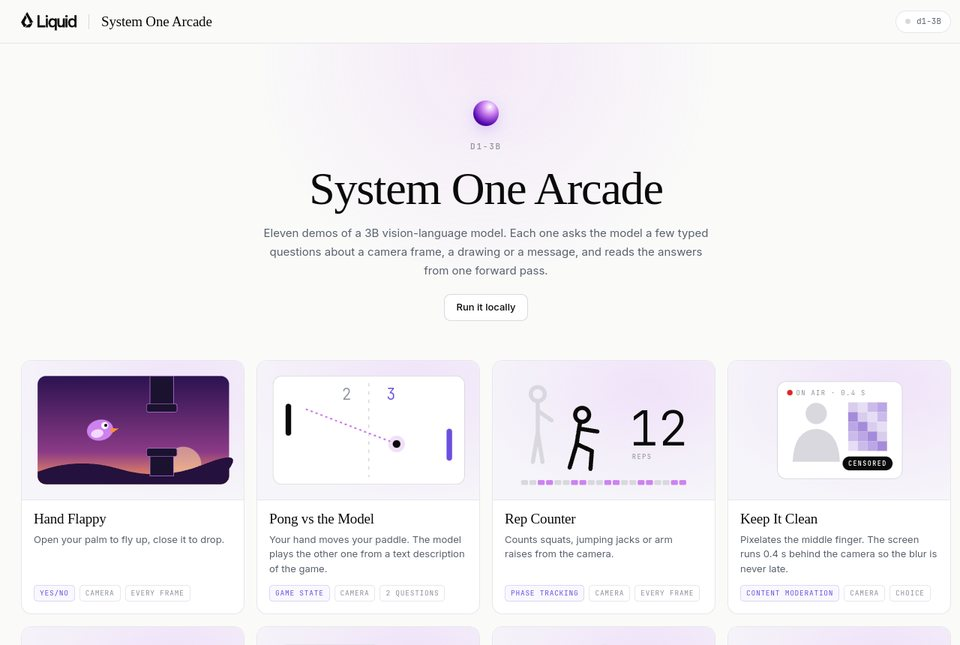
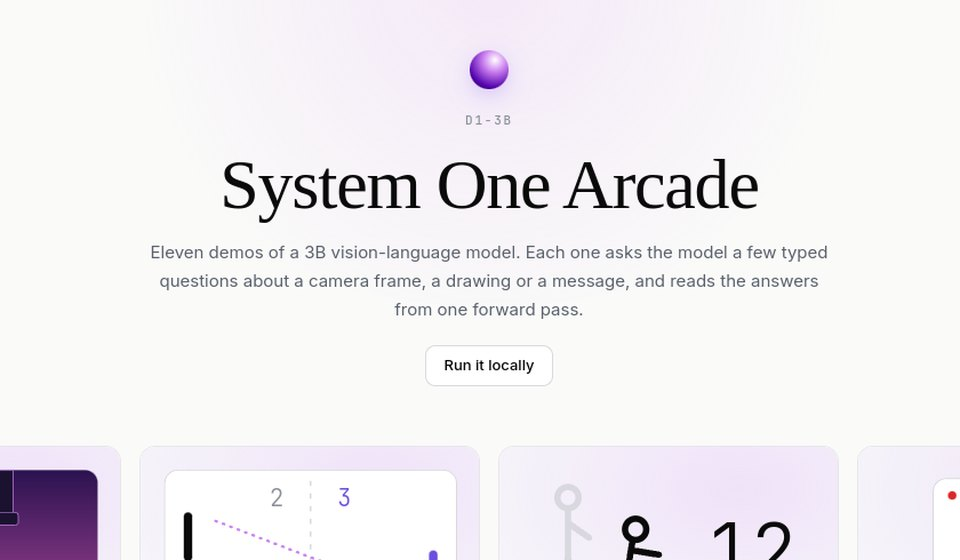
Demos: tighter screenshot crops
Claude-Session: https://claude.ai/code/session_01D4QHKUtNf3uFK5cjyGefw2

diff --git a/index.html b/index.html
@@ -631,23 +631,23 @@ footer.site a { color: var(--ink-muted); border: none; }
     <p class="headline">Nine demos worth trying.</p>
     <p class="intro">We found 282 live demos of Jev-style models (all checked on 16 Oct 2026). These nine are the most carefully made and show the most: probabilities, calibration, abstention, latency and the one-pass mechanics. Screenshots 16 Oct; click one to open the demo.</p>
     <div class="demos">
-      <figure class="demo" id="d-laya"><a class="img" href="https://huggingface.co/spaces/convaiinnovations/laya-demo"><img src="demos/laya.jpg" alt="Screenshot of the Laya Demo demo" loading="lazy" decoding="async" width="960" height="645"></a>
+      <figure class="demo" id="d-laya"><a class="img" href="https://huggingface.co/spaces/convaiinnovations/laya-demo"><img src="demos/laya.jpg" alt="Screenshot of the Laya Demo demo" loading="lazy" decoding="async" width="960" height="560"></a>
         <figcaption><div class="top"><a class="name" href="https://huggingface.co/spaces/convaiinnovations/laya-demo">Laya Demo</a><span class="lk">♥ 276</span></div><div class="dmeta"><span>Laya · 421M</span><span>text</span><span>convaiinnovations</span></div><p>Support triage, guardrails, routing and more, each answered in one pass with a probability per option; the thresholds live in your code, not in the model.</p></figcaption></figure>
-      <figure class="demo" id="d-kev"><a class="img" href="https://huggingface.co/spaces/jaredpalmer/kev"><img src="demos/kev.jpg" alt="Screenshot of the Kev demo" loading="lazy" decoding="async" width="960" height="645"></a>
+      <figure class="demo" id="d-kev"><a class="img" href="https://huggingface.co/spaces/jaredpalmer/kev"><img src="demos/kev.jpg" alt="Screenshot of the Kev demo" loading="lazy" decoding="async" width="960" height="560"></a>
         <figcaption><div class="top"><a class="name" href="https://huggingface.co/spaces/jaredpalmer/kev">Kev</a><span class="lk">♥ 88</span></div><div class="dmeta"><span>Kev · 0.8B / 4B</span><span>text</span><span>Jared Palmer</span></div><p>Jev's /v1/systemone request format with both sizes side by side, plus probes for question isolation and option-boundary forgery.</p></figcaption></figure>
-      <figure class="demo" id="d-openjev"><a class="img" href="https://huggingface.co/spaces/pngwn/open-jev"><img src="demos/openjev.jpg" alt="Screenshot of the Open Jev demo" loading="lazy" decoding="async" width="960" height="645"></a>
+      <figure class="demo" id="d-openjev"><a class="img" href="https://huggingface.co/spaces/pngwn/open-jev"><img src="demos/openjev.jpg" alt="Screenshot of the Open Jev demo" loading="lazy" decoding="async" width="960" height="560"></a>
         <figcaption><div class="top"><a class="name" href="https://huggingface.co/spaces/pngwn/open-jev">Open Jev</a><span class="lk">♥ 40</span></div><div class="dmeta"><span>Qwen3.5-4B scorer</span><span>text</span><span>pngwn</span></div><p>Encode the state once, decide in parallel: cached vs naive scoring vs JSON generation, with forward-pass counts.</p></figcaption></figure>
-      <figure class="demo" id="d-jevweb"><a class="img" href="https://warsang.github.io/jev-web/"><img src="demos/jevweb.jpg" alt="Screenshot of the jev-web demo" loading="lazy" decoding="async" width="960" height="645"></a>
+      <figure class="demo" id="d-jevweb"><a class="img" href="https://warsang.github.io/jev-web/"><img src="demos/jevweb.jpg" alt="Screenshot of the jev-web demo" loading="lazy" decoding="async" width="960" height="560"></a>
         <figcaption><div class="top"><a class="name" href="https://warsang.github.io/jev-web/">jev-web</a></div><div class="dmeta"><span>~10 open models</span><span>in browser</span><span>warsang</span></div><p>Switch between open decision models on the same input, on your own device, with latency and forward passes counted.</p></figcaption></figure>
-      <figure class="demo" id="d-jev9b"><a class="img" href="https://huggingface.co/spaces/autotrust/jev-9b-decision-demo"><img src="demos/jev9b.jpg" alt="Screenshot of the JEV-9B · System 1 + 2 demo" loading="lazy" decoding="async" width="960" height="645"></a>
+      <figure class="demo" id="d-jev9b"><a class="img" href="https://huggingface.co/spaces/autotrust/jev-9b-decision-demo"><img src="demos/jev9b.jpg" alt="Screenshot of the JEV-9B · System 1 + 2 demo" loading="lazy" decoding="async" width="960" height="560"></a>
         <figcaption><div class="top"><a class="name" href="https://huggingface.co/spaces/autotrust/jev-9b-decision-demo">JEV-9B · System 1 + 2</a><span class="lk">♥ 110</span></div><div class="dmeta"><span>JEV-9B</span><span>text</span><span>AutoTrust</span></div><p>Calibrated distributions in one pass; an Escalate tab hands low-confidence questions to System 2 thinking with the same weights.</p></figcaption></figure>
-      <figure class="demo" id="d-imajev"><a class="img" href="https://huggingface.co/spaces/mohit67890/imajev"><img src="demos/imajev.jpg" alt="Screenshot of the imajev demo" loading="lazy" decoding="async" width="960" height="645"></a>
+      <figure class="demo" id="d-imajev"><a class="img" href="https://huggingface.co/spaces/mohit67890/imajev"><img src="demos/imajev.jpg" alt="Screenshot of the imajev demo" loading="lazy" decoding="async" width="960" height="560"></a>
         <figcaption><div class="top"><a class="name" href="https://huggingface.co/spaces/mohit67890/imajev">imajev</a><span class="lk">♥ 14</span></div><div class="dmeta"><span>imajev-4B</span><span>image + text</span><span>mohit67890</span></div><p>Photo-against-record checks with an explicit can't-tell probability, so you can trade coverage for accuracy.</p></figcaption></figure>
-      <figure class="demo" id="d-d3"><a class="img" href="https://huggingface.co/spaces/vllm-sr/Decision-3.0"><img src="demos/d3.jpg" alt="Screenshot of the Decision 3.0 demo" loading="lazy" decoding="async" width="960" height="645"></a>
+      <figure class="demo" id="d-d3"><a class="img" href="https://huggingface.co/spaces/vllm-sr/Decision-3.0"><img src="demos/d3.jpg" alt="Screenshot of the Decision 3.0 demo" loading="lazy" decoding="async" width="960" height="560"></a>
         <figcaption><div class="top"><a class="name" href="https://huggingface.co/spaces/vllm-sr/Decision-3.0">Decision 3.0</a><span class="lk">♥ 3</span></div><div class="dmeta"><span>d3 family</span><span>text · image · video</span><span>vLLM Semantic Router · official</span></div><p>A probability for every answer on text, images and video; models side by side with latency; boxes scored on a zooming grid.</p></figcaption></figure>
-      <figure class="demo" id="d-arcade"><a class="img" href="https://huggingface.co/spaces/LiquidAI/system-one-arcade"><img src="demos/arcade.jpg" alt="Screenshot of the System One Arcade demo" loading="lazy" decoding="async" width="960" height="645"></a>
+      <figure class="demo" id="d-arcade"><a class="img" href="https://huggingface.co/spaces/LiquidAI/system-one-arcade"><img src="demos/arcade.jpg" alt="Screenshot of the System One Arcade demo" loading="lazy" decoding="async" width="960" height="560"></a>
         <figcaption><div class="top"><a class="name" href="https://huggingface.co/spaces/LiquidAI/system-one-arcade">System One Arcade</a><span class="lk">♥ 44</span></div><div class="dmeta"><span>d1-3B</span><span>camera · drawing</span><span>LiquidAI · official</span></div><p>Eleven camera and drawing mini-games, each driven by a few typed questions answered in one pass.</p></figcaption></figure>
-      <figure class="demo" id="d-videojev"><a class="img" href="https://huggingface.co/spaces/hugging-apps/videojev"><img src="demos/videojev.jpg" alt="Screenshot of the VideoJev demo" loading="lazy" decoding="async" width="960" height="645"></a>
+      <figure class="demo" id="d-videojev"><a class="img" href="https://huggingface.co/spaces/hugging-apps/videojev"><img src="demos/videojev.jpg" alt="Screenshot of the VideoJev demo" loading="lazy" decoding="async" width="960" height="560"></a>
         <figcaption><div class="top"><a class="name" href="https://huggingface.co/spaces/hugging-apps/videojev">VideoJev</a><span class="lk">♥ 2</span></div><div class="dmeta"><span>VideoJev-4B</span><span>video</span><span>hugging-apps</span></div><p>Temporal grounding and video QA in one pass, with a probability per timestamp; several questions share one video encoding.</p></figcaption></figure>
     </div>
     <p class="evnote" style="margin-top:16px">to try closed Jev itself: <a href="https://console.typesafe.ai/playground">TypeSafe playground</a> (account) · <a href="https://openrouter.ai/typesafe/jev-1.13">OpenRouter playground</a> (credits)</p>
